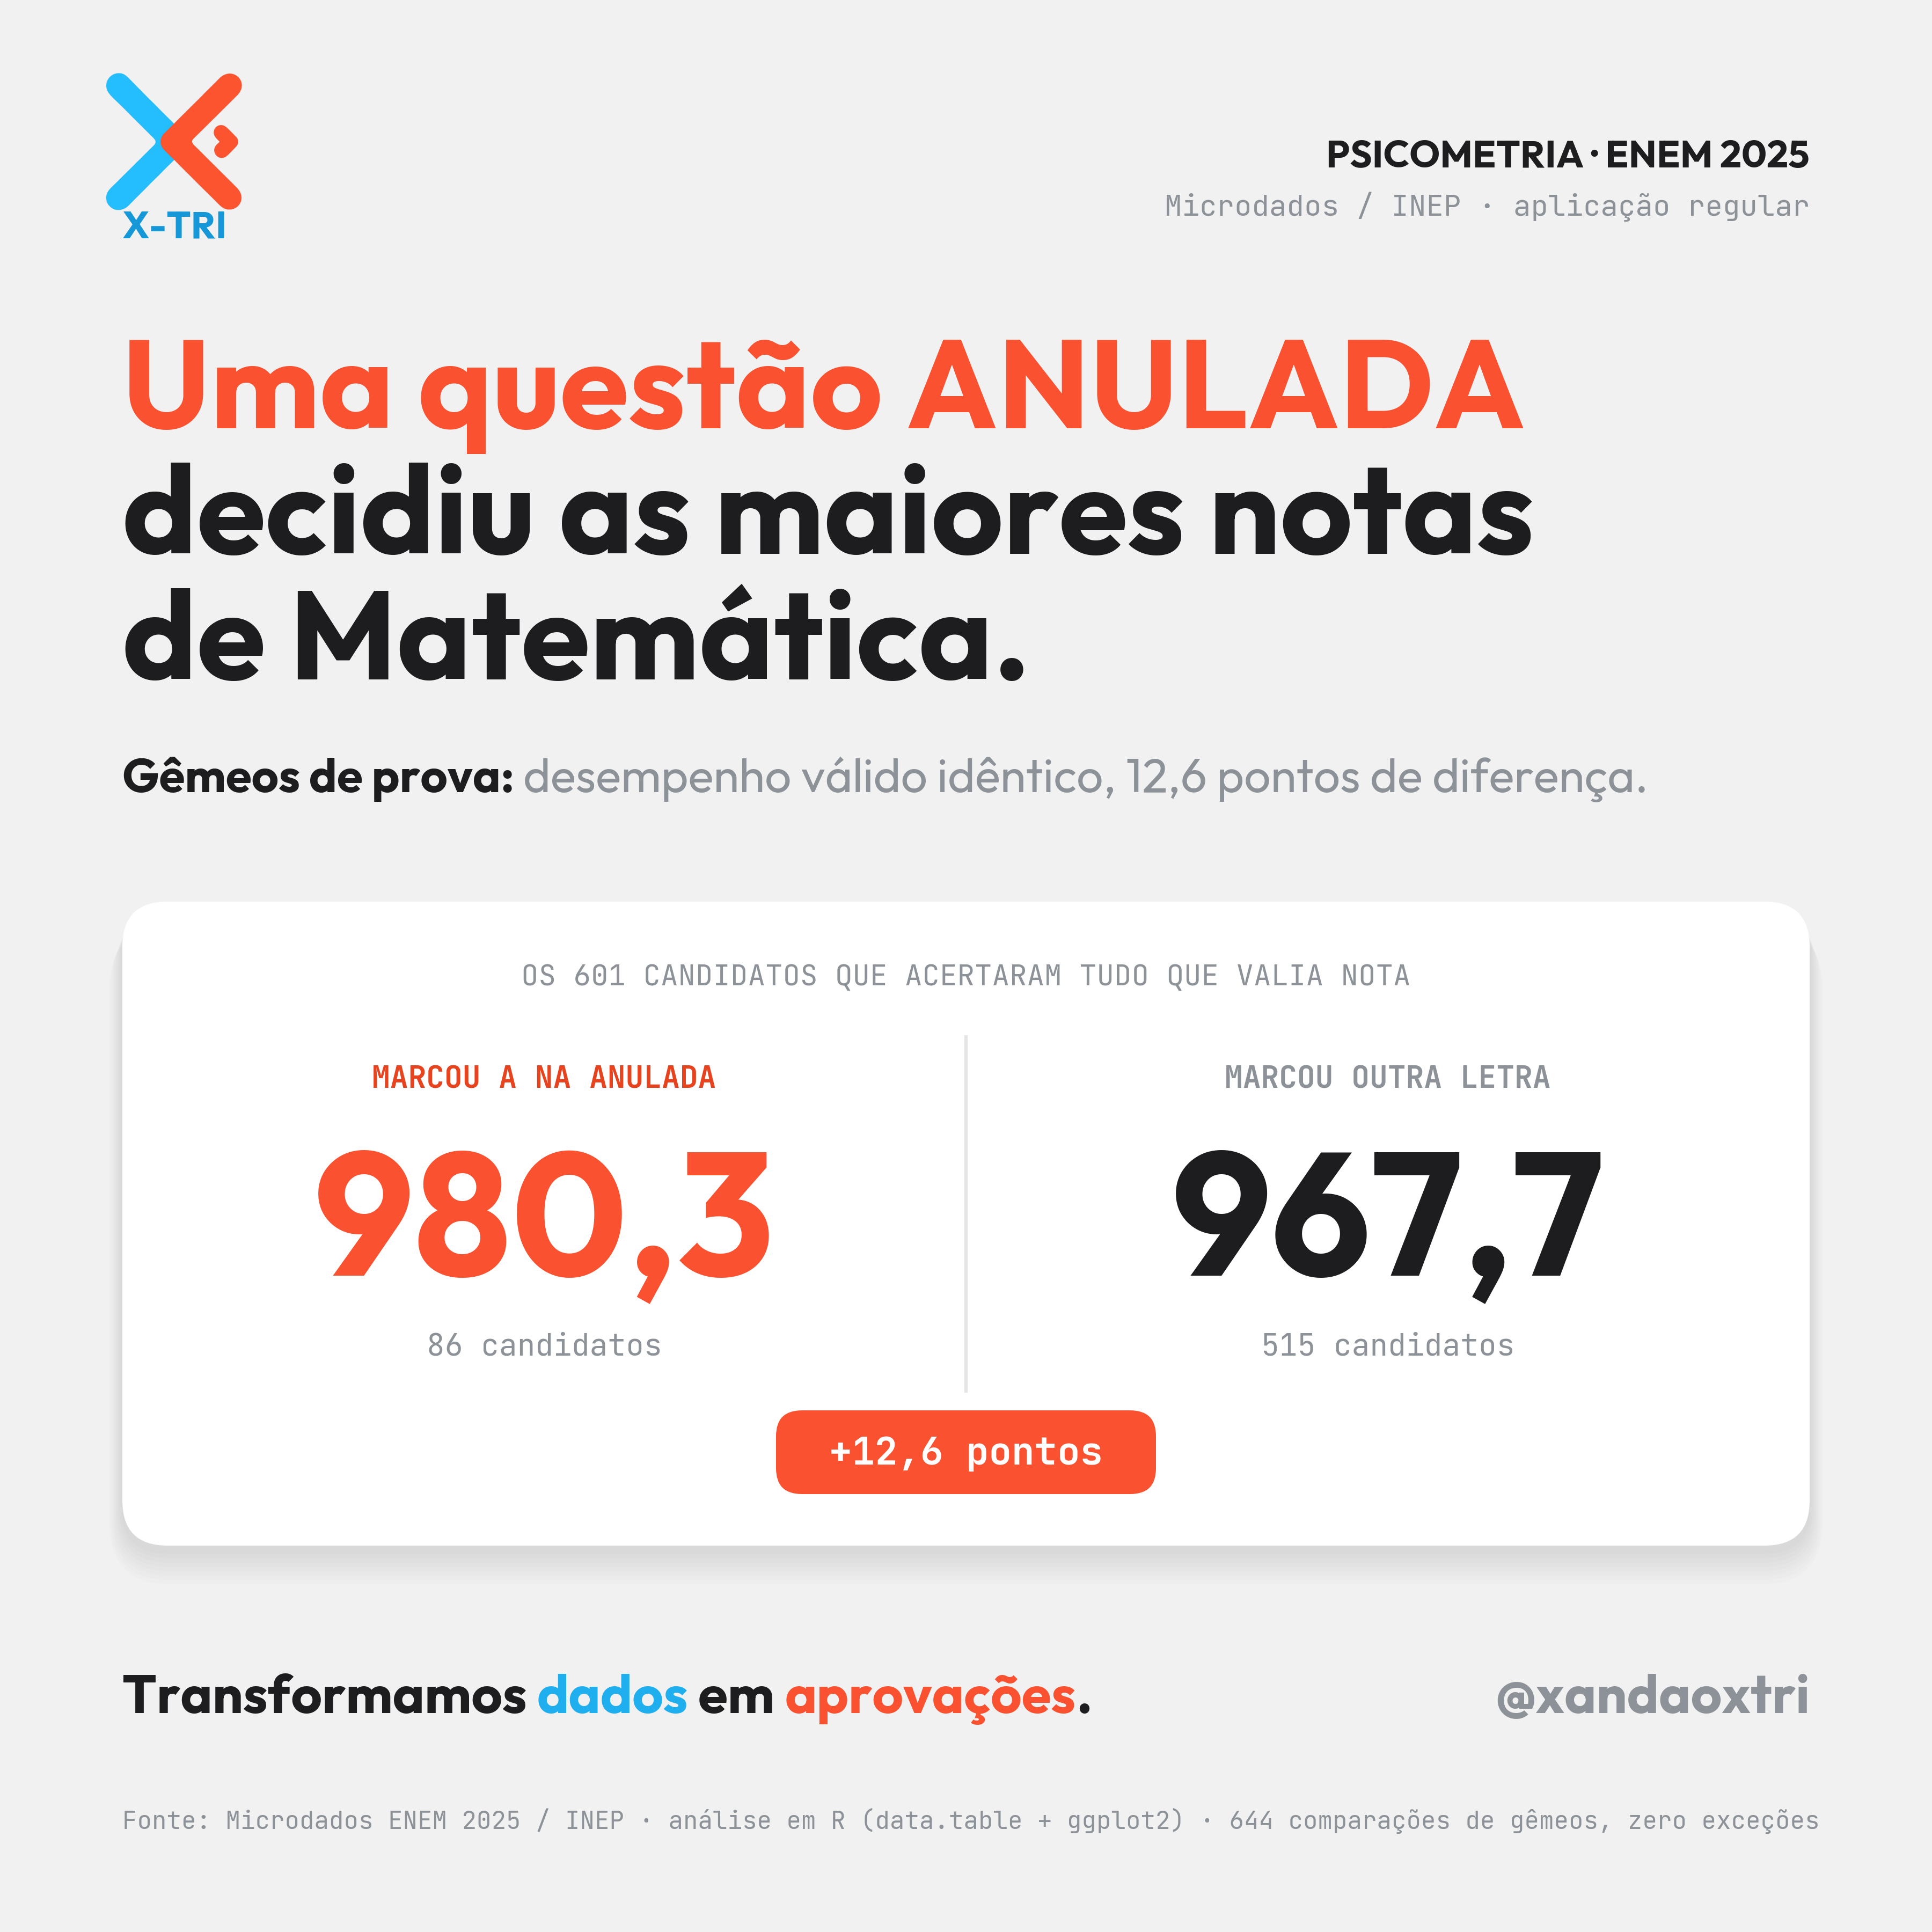
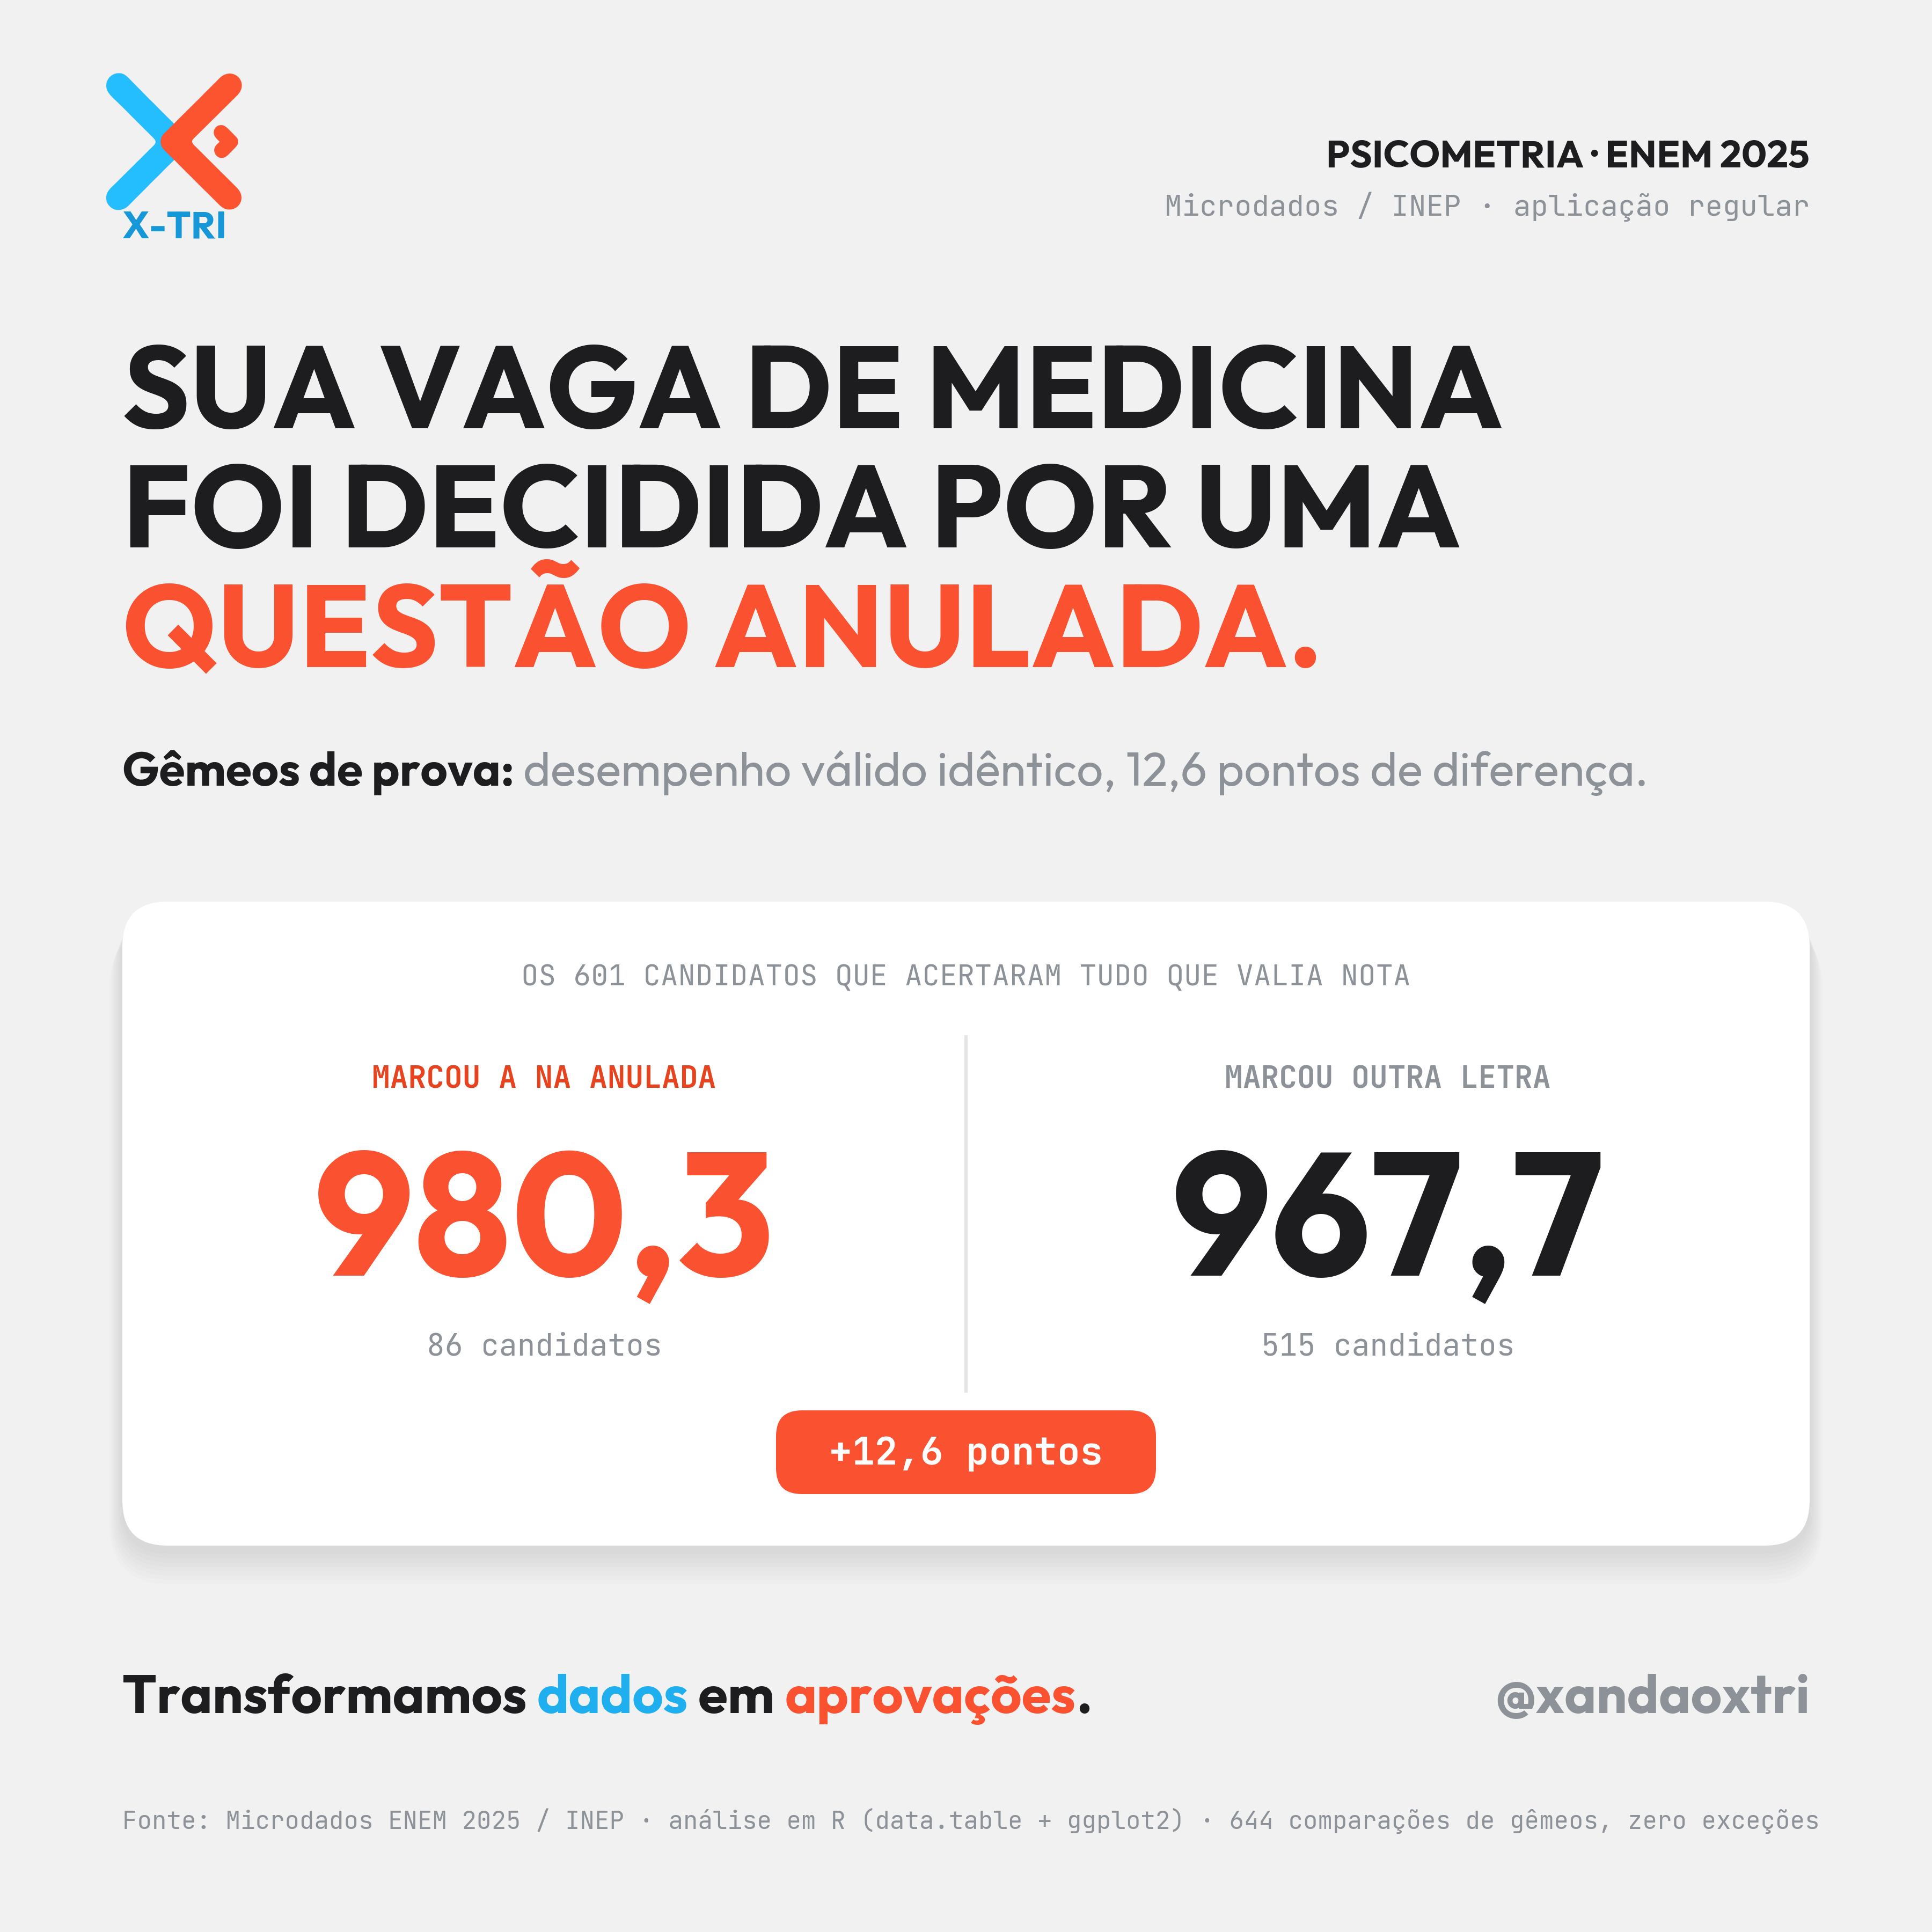
Nova chamada da capa LinkedIn: SUA VAGA DE MEDICINA FOI DECIDIDA POR UMA QUESTAO ANULADA

Changed region(s): [[0.0622, 0.1556, 0.8089, 0.4356], [0.5911, 0.3733, 0.84, 0.4356]]

diff --git a/posts_taticos/07_questao_anulada_teto/linkedin/build_capa_linkedin.py b/posts_taticos/07_questao_anulada_teto/linkedin/build_capa_linkedin.py
@@ -56,12 +56,12 @@ txt(W - M, 104, "PSICOMETRIA · ENEM 2025", outfitB, 17, INK, ha="right")
 txt(W - M, 134, "Microdados / INEP · aplicação regular", mono, 13, GRAY, ha="right")
 
 # chamada
-txt(M, 266, "Uma questão ANULADA", outfitB, 56, CORAL)
-txt(M, 344, "decidiu as maiores notas", outfitB, 56, INK)
-txt(M, 422, "de Matemática.", outfitB, 56, INK)
+txt(M, 266, "SUA VAGA DE MEDICINA", outfitB, 52, INK)
+txt(M, 340, "FOI DECIDIDA POR UMA", outfitB, 52, INK)
+txt(M, 414, "QUESTÃO ANULADA.", outfitB, 52, CORAL)
 sub1 = "Gêmeos de prova: "
-txt(M, 492, sub1, outfitB, 21, INK)
-txt(M + tw(sub1, outfitB, 21), 492, "desempenho válido idêntico, 12,6 pontos de diferença.",
+txt(M, 488, sub1, outfitB, 21, INK)
+txt(M + tw(sub1, outfitB, 21), 488, "desempenho válido idêntico, 12,6 pontos de diferença.",
     outfit, 21, GRAY)
 
 # hero

diff --git a/posts_taticos/07_questao_anulada_teto/linkedin/TEXTO_linkedin.md b/posts_taticos/07_questao_anulada_teto/linkedin/TEXTO_linkedin.md
@@ -32,7 +32,8 @@ xtri.online
 ---
 
 ## Notas (documentação interna)
-- Chamada da capa: "Uma questão ANULADA decidiu as maiores notas de Matemática." + sub "Gêmeos de prova: desempenho válido idêntico, 12,6 pontos de diferença."
+- Chamada da capa (alterada a pedido em 10/jul): "SUA VAGA DE MEDICINA FOI DECIDIDA POR UMA QUESTÃO ANULADA." + sub "Gêmeos de prova: desempenho válido idêntico, 12,6 pontos de diferença." (Chamada anterior: "Uma questão ANULADA decidiu as maiores notas de Matemática.")
+- Precisão do claim: o efeito comprovado atinge quem acertou todos os itens válidos (686 candidatos MT+CN) — o corpo do post carrega essa nuance; a chamada usa "sua vaga de Medicina" como hipérbole de capa, decisão editorial do professor.
 - Números dos scripts R 06-08 (projeto "microdados no R Studio"), mesmos do carrossel IG (ver ../TEXTO_legenda.md).
 - Referência ao post anterior de LinkedIn (post_anulados/linkedin/): lá as curvas empíricas já mostravam os melhores convergindo em D no item de convergência — este post fecha aquele ciclo.
 - CTA: xtri.online (padrão vigente desde 10/jul; o post antigo usava app.rankingenem.com).